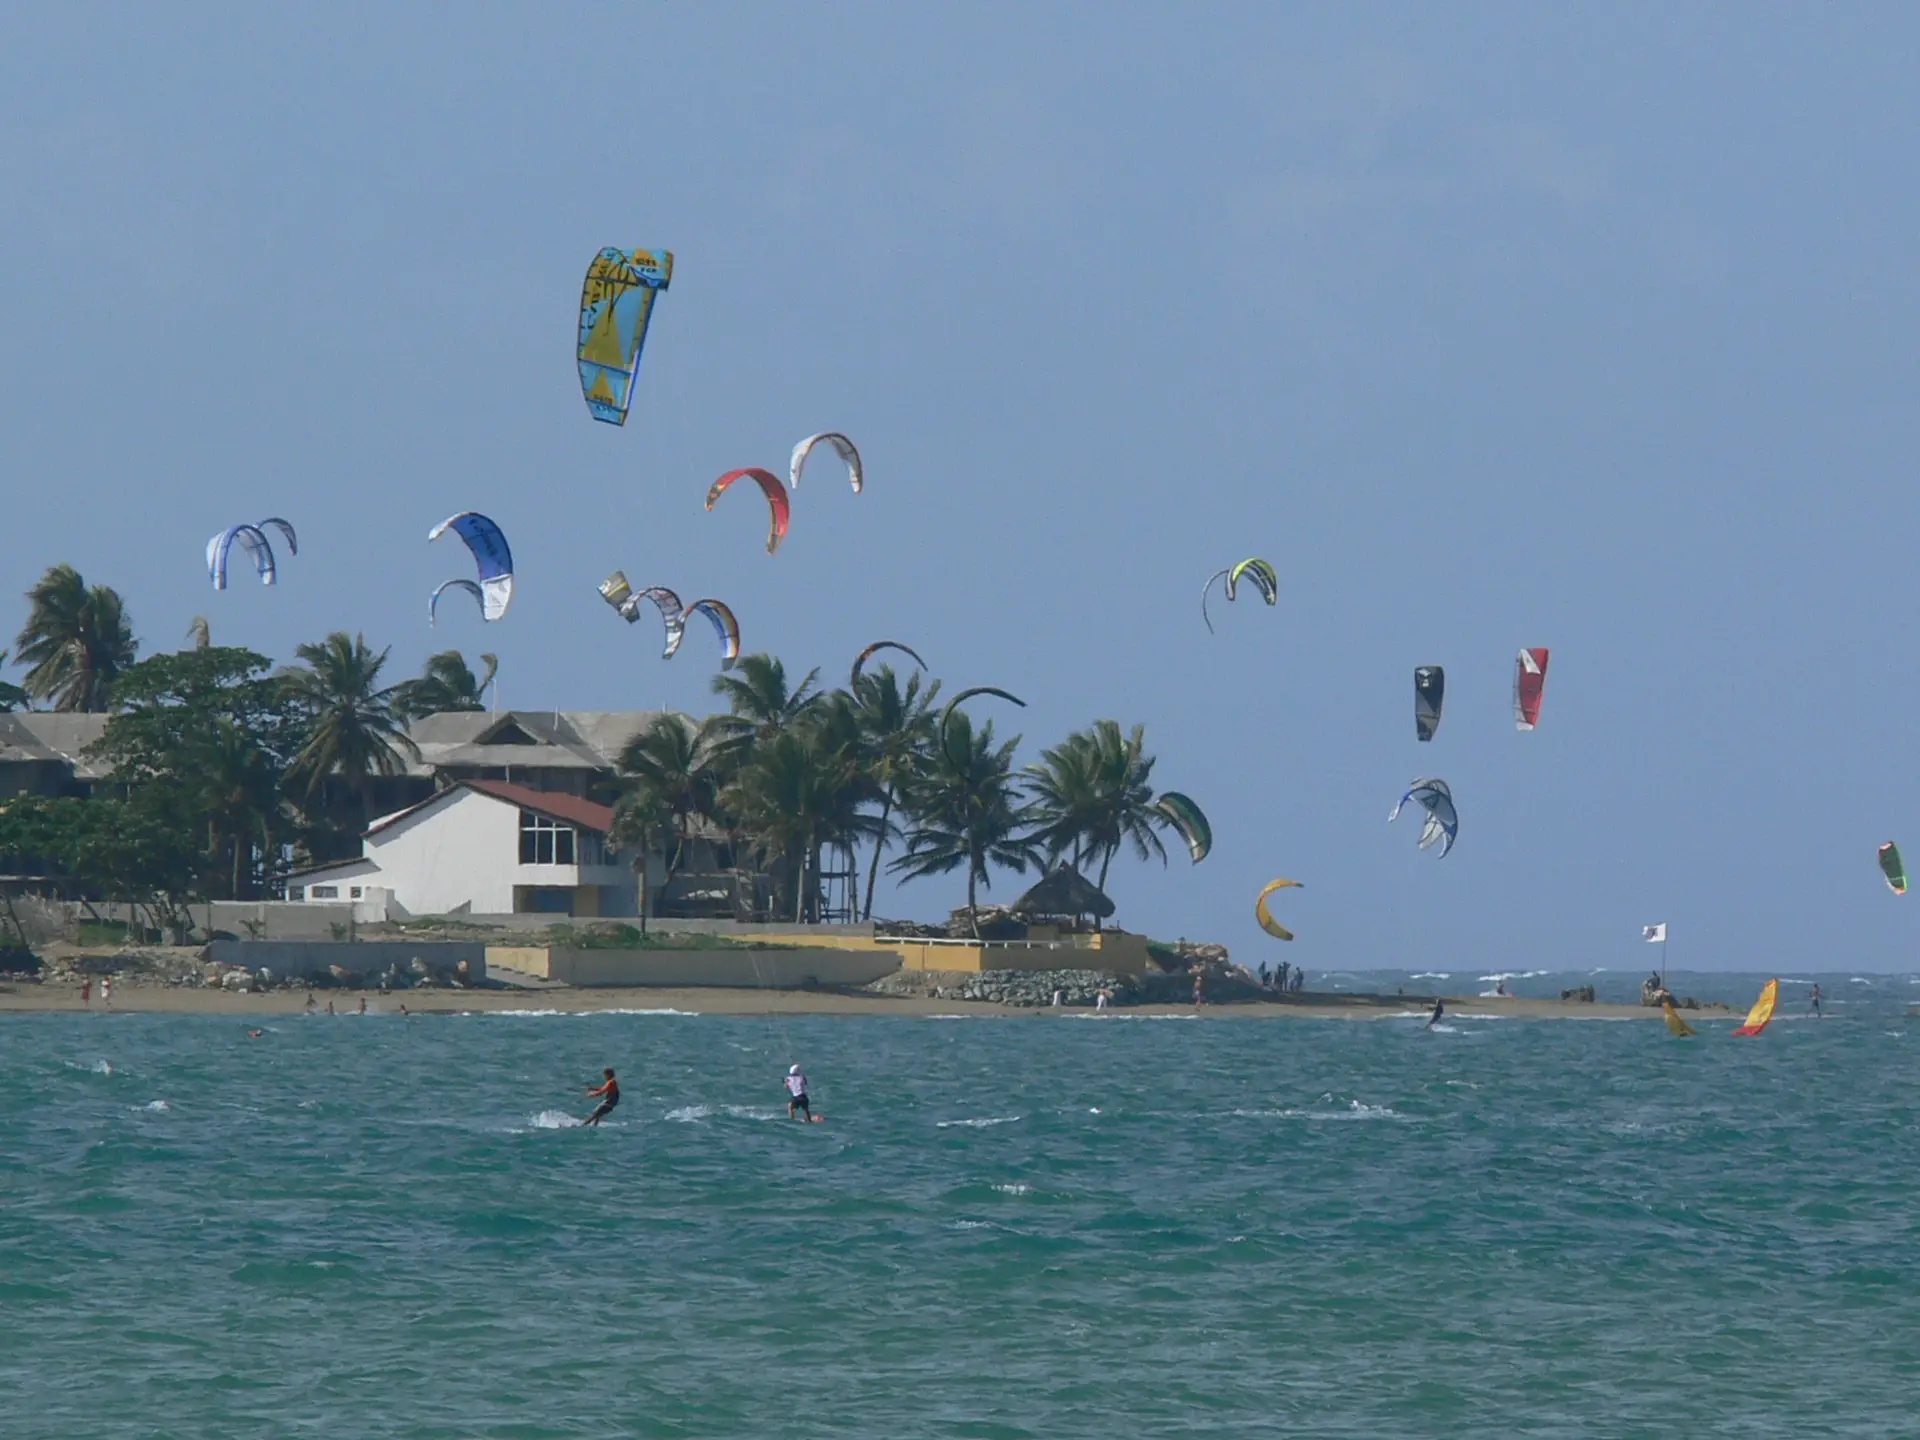
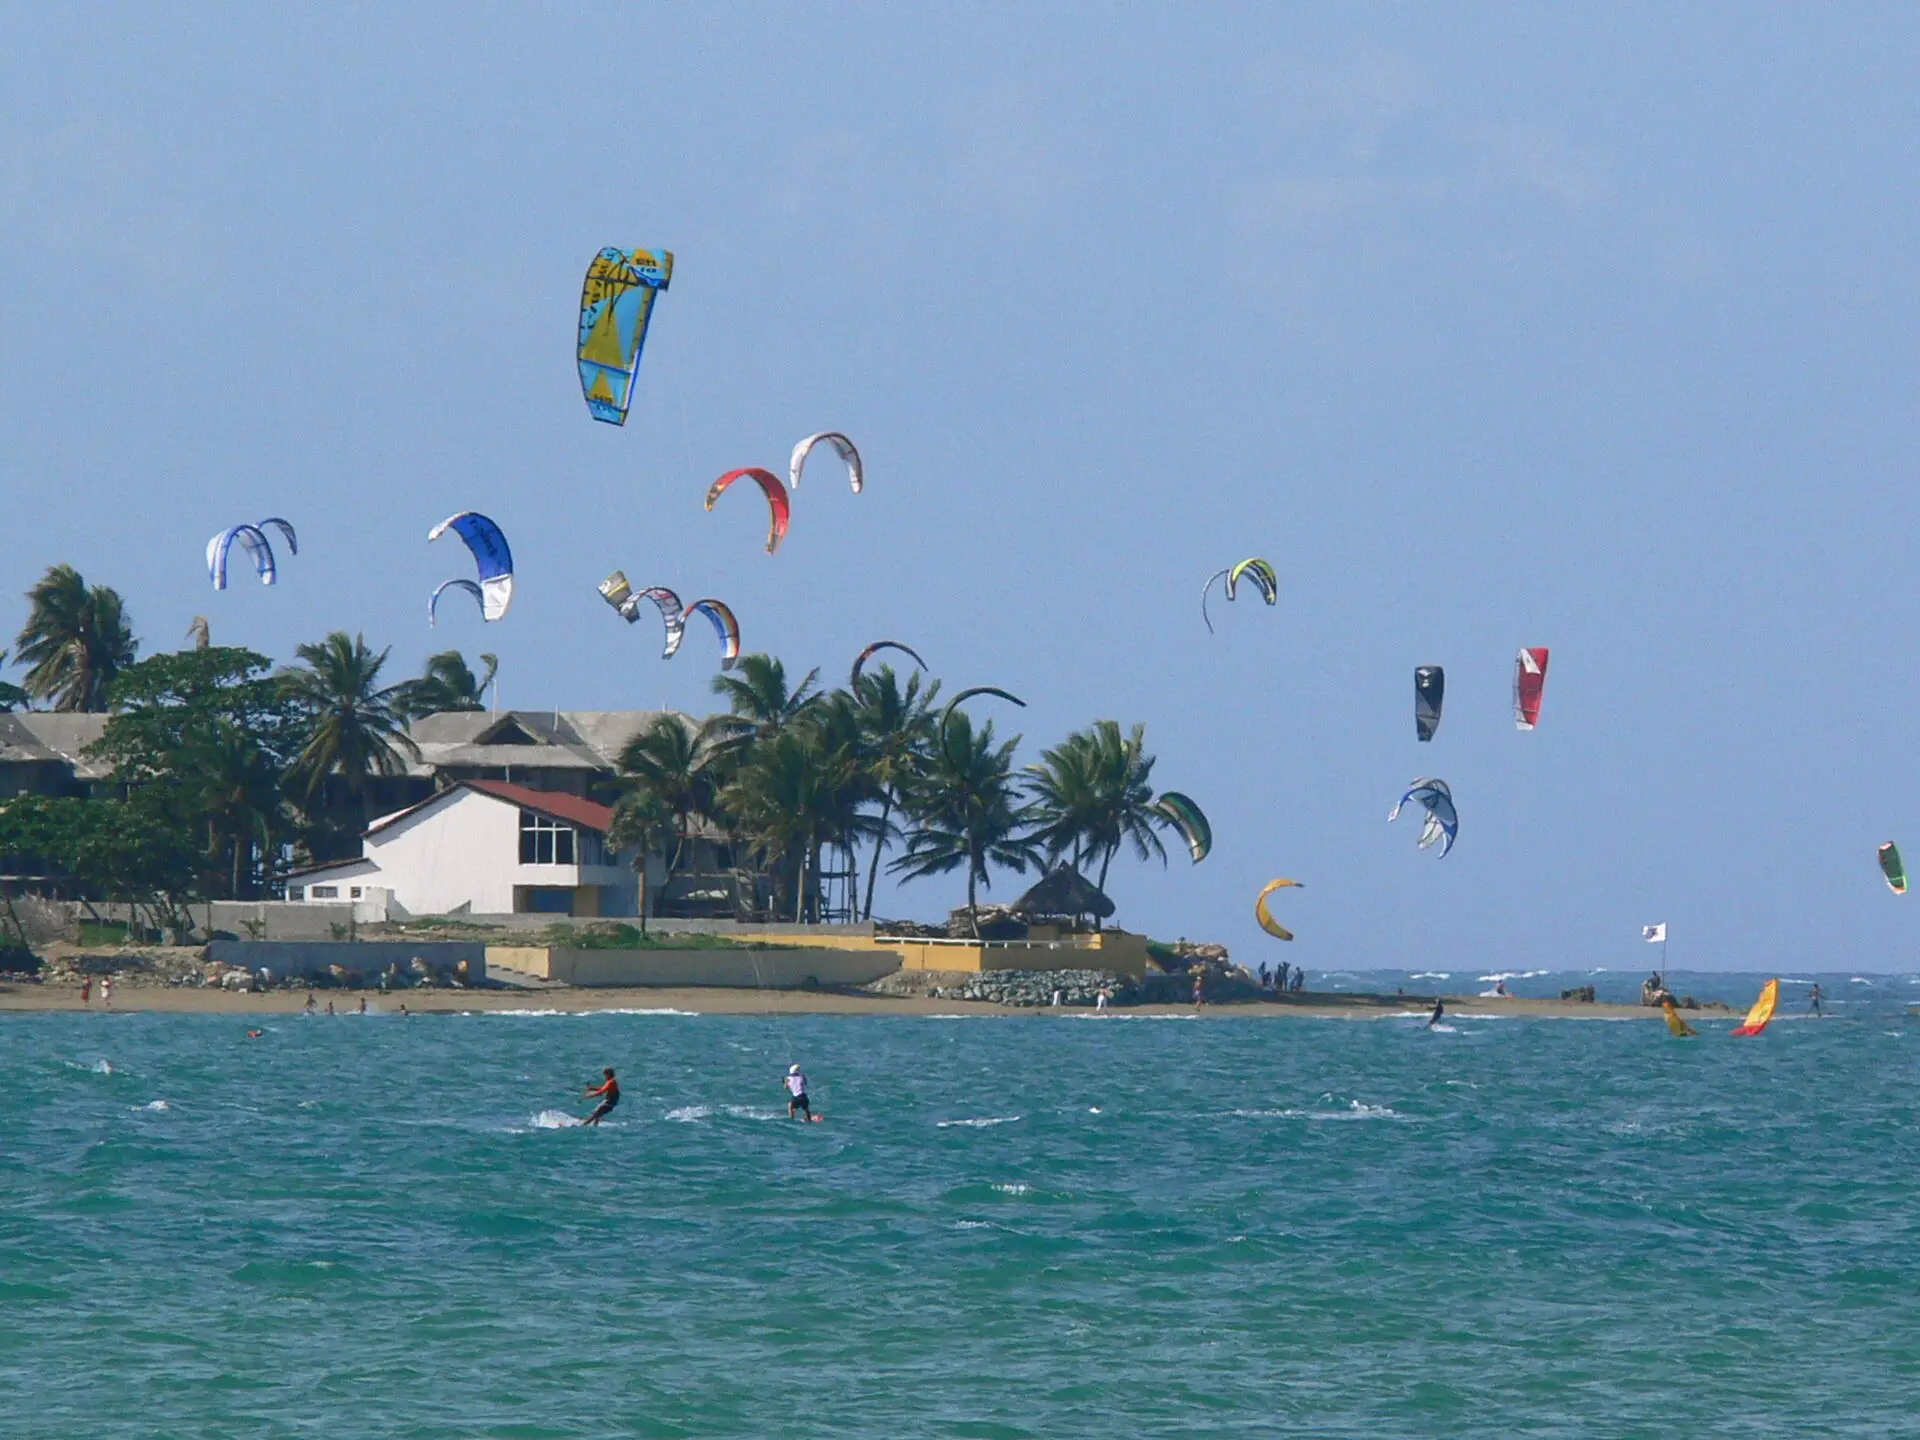
v3: brighter Ken Burns kitesurf panel, overlays removed

diff --git a/v3/index.html b/v3/index.html
@@ -100,10 +100,9 @@
     <a class="btn btn-ink magnetic" href="mailto:hello.santoshretreats@gmail.com?subject=Retreat%20inquiry"><span>Inquire now</span></a>
   </div>
   <div class="split-art bg-sea">
-    <picture class="sa-photo"><source type="image/webp" srcset="img/cabarete-kite-900.webp 900w, img/cabarete-kite-1920.webp 1920w" sizes="(min-width:900px) 50vw, 100vw"><img src="img/cabarete-kite-1920.jpg" alt="Kitesurfers fill the sky and waves off the palm-lined beach at Cabarete, on the Dominican Republic's north coast." loading="lazy" decoding="async" width="1920" height="1440"></picture>
+    <div class="sa-kb"><picture class="sa-photo"><source type="image/webp" srcset="img/cabarete-kite-900.webp 900w, img/cabarete-kite-1920.webp 1920w" sizes="(min-width:900px) 50vw, 100vw"><img src="img/cabarete-kite-1920.jpg" alt="Kitesurfers fill the sky and waves off the palm-lined beach at Cabarete, on the Dominican Republic's north coast." loading="lazy" decoding="async" width="1920" height="1440"></picture></div>
     <span class="sa-tint" aria-hidden="true"></span>
-    <canvas class="flow" data-flow aria-hidden="true"></canvas>
-    <svg class="split-mark" aria-hidden="true"><use href="#tri"/></svg>
+    <span class="sa-shimmer" aria-hidden="true"></span>
     <p class="split-big" aria-hidden="true">Move.<br>Breathe.<br>Reset.</p>
     <p class="sa-credit">Photo: <a href="https://commons.wikimedia.org/wiki/File:Cabarete.jpg" rel="noopener">Reimar Hoven</a>, <a href="https://creativecommons.org/licenses/by-sa/3.0/" rel="noopener license">CC BY-SA 3.0</a></p>
   </div>

diff --git a/v3/css/v3.css b/v3/css/v3.css
@@ -331,3 +331,15 @@ cite{display:block;margin-top:.6rem;font-family:var(--sans);font-style:normal;fo
 .sa-credit a{color:inherit}
 .reduced .sa-photo img{transform:none}
 @media (prefers-reduced-motion:reduce){.sa-photo img{transform:none}}
+
+/* v3.4: brighter, moving kitesurf panel */
+.split-art{background:#7fb6c4}
+.sa-kb{position:absolute;inset:-6%;animation:kenburns 26s ease-in-out infinite alternate;will-change:transform}
+@keyframes kenburns{0%{transform:scale(1) translate3d(0,0,0)}50%{transform:scale(1.08) translate3d(-2.5%,1.5%,0)}100%{transform:scale(1.14) translate3d(2%,-1.5%,0)}}
+.sa-photo img{transform:none;filter:saturate(1.12) brightness(1.04) contrast(1.03)}
+.sa-tint{background:linear-gradient(180deg,rgba(0,0,0,0) 0%,rgba(0,0,0,0) 45%,rgba(10,30,32,.35) 68%,rgba(8,24,26,.72) 100%)}
+.sa-shimmer{position:absolute;left:-30%;right:-30%;top:52%;bottom:0;background:linear-gradient(100deg,transparent 30%,rgba(255,255,255,.16) 45%,rgba(255,255,255,.04) 55%,transparent 70%);mix-blend-mode:soft-light;animation:shimmer 9s ease-in-out infinite;pointer-events:none}
+@keyframes shimmer{0%{transform:translate3d(-25%,0,0)}100%{transform:translate3d(25%,0,0)}}
+.split-big{text-shadow:0 2px 22px rgba(0,0,0,.45)}
+.reduced .sa-kb,.reduced .sa-shimmer{animation:none}
+@media (prefers-reduced-motion:reduce){.sa-kb,.sa-shimmer{animation:none}}

diff --git a/v3/js/v3.js b/v3/js/v3.js
@@ -166,7 +166,7 @@
   /* intro heading: word reveal */
   gsap.from('.split-copy > *', { y: 50, opacity: 0, duration: 1, stagger: .1, ease: 'power3.out', scrollTrigger: { trigger: '.split', start: 'top 75%' } });
   gsap.from('.split-art', { clipPath: 'inset(100% 0% 0% 0% round 14px)', duration: 1.4, ease: 'expo.inOut', scrollTrigger: { trigger: '.split', start: 'top 70%' } });
-  gsap.fromTo('.sa-photo img', { scale: 1.18, yPercent: -4 }, { scale: 1.02, yPercent: 4, ease: 'none', scrollTrigger: { trigger: '.split-art', start: 'top bottom', end: 'bottom top', scrub: true } });
+  gsap.fromTo('.sa-photo img', { yPercent: -5 }, { yPercent: 5, ease: 'none', scrollTrigger: { trigger: '.split-art', start: 'top bottom', end: 'bottom top', scrub: true } });
   gsap.from('.split-big', { yPercent: 40, opacity: 0, duration: 1.1, ease: 'expo.out', scrollTrigger: { trigger: '.split', start: 'top 55%' } });
   gsap.from('.stat', { y: 80, opacity: 0, duration: 1, stagger: .12, ease: 'power3.out', scrollTrigger: { trigger: '.stats', start: 'top 85%' } });
   gsap.from('.tile', { y: 70, opacity: 0, rotate: 1.5, duration: .9, stagger: .08, ease: 'power3.out', scrollTrigger: { trigger: '.tiles', start: 'top 85%' } });
